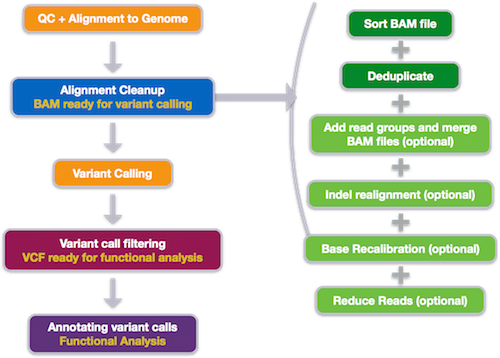
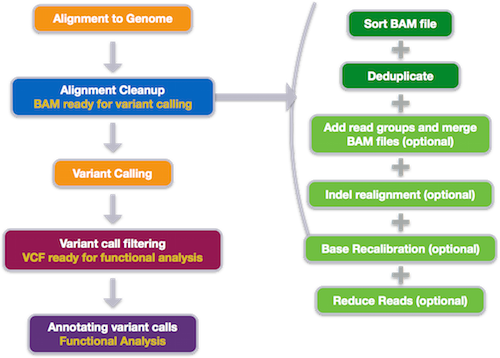
Finished markdown for alignment for variant calling.
Need to edit the commands from bwa-mem to end. I think I need to have all reference and fastq files in the same folder for bwa alignment.

Changed region(s): [[0.03, 0.0, 0.42, 0.0922]]

diff --git a/sessionVI/lessons/01_alignment.md b/sessionVI/lessons/01_alignment.md
@@ -8,21 +8,72 @@ Approximate time: 90 minutes
 
 ## Learning Objectives:
 
-* Exploration of the variant calling workflow
-* Understanding the alignment method BWA utilizes to align sequence reads to the reference genome
+* Exploring the variant calling workflow
 * Choosing appropriate BWA alignment parameters for our dataset
+* Understanding alignment clean-up steps
 
 ## Variant Calling Workflow
 
+The variant calling workflow begins with quality control and alignment, similar to the other NGS applications. Alignment is followed by alignment clean-up to prepare data for variant calling. Then, variant calling is performed, followed by filtering and annotation of the variant calls.
+
 ![var_calling_workflow](../img/variant_calling_workflow.png)
 
-The variant calling workflow begins with quality control and alignment, similar to the other NGS applications. Alignment is followed by alignment cleanup to prepare data for variant calling. Then, variant calling is performed, followed by variant call filtering and annotation of the variant calls.
+## Set-up
 
-## Read Alignment
+Login to Orchestra and start an interactive session with four cores:
+
+```
+$ bsub -Is -n 4 -q interactive bash
+```
+
+Change directories to the `ngs_course` directory:
+
+```
+$ cd ~/ngs_course
+```
+
+Create a `var-calling` directory and change directories into it:
+
+```
+$ mkdir var-calling
+
+$ cd var-calling
+```
+
+Create folders for `data`and `results`:
+
+```
+$ mkdir data results
+```
+
+Within the `data` folder create folders for `untrimmed_fastq` and `reference_data`:
+
+```
+$ mkdir data/untrimmed_fastq data/reference_data
+```
+
+Within the `results` folder create a folder for `bwa`:
+
+```
+$ mkdir results/bwa
+```
+
+Now that we have the directory structure created, let's copy over the data to perform our quality control and alignment, including our fastq files and reference data files:
+
+```
+$ cd data
+
+$ cp /groups/hbctraining/ngs-data-analysis2016/var-calling/raw_fastq/*fastq untrimmed_fastq/
+
+$ cp  /groups/hbctraining/ngs-data-analysis2016/chipseq/reference_data/chr20.fa reference_data/
+```
+
+
+## Alignment
 
 Choice of alignment tool is often determined by the type of NGS application being conducted. We have previously used STAR for RNA-Seq data because it is fast and optimized for aligning spliced reads. For ChIP-Seq we used Bowtie2 to align the reads because it is fast and accurate. For variant calling we will use [BWA (Burrows-Wheeler Aligner)](http://bio-bwa.sourceforge.net) for alignment. 
 
-BWA is generally slower than Bowtie2 with similar sensitivity and both tools can perform gapped alignment for the identification of indels and can effectively map paired-end reads. However, BWA is a bit more accurate and provides information on which alignments are trustworthy. Small numbers of bad alignments can result in many false variant calls, so accuracy is paramount when performing variant calling.
+BWA is generally slower than Bowtie2 with similar sensitivity and both tools can perform gapped alignment for the identification of indels and can effectively map paired-end reads. However, BWA is a bit more accurate and provides information on which alignments are trustworthy. Small numbers of bad alignments can result in many false variant calls, so accuracy is paramount, and is the basis of choosing BWA.
 
 ### BWA modes
 
@@ -34,12 +85,100 @@ Depending on read length, BWA has different modes optimized for different sequen
 
 - **BWA-MEM:** share similar features to BWA-SW, but BWA-MEM is the latest, is generally recommended for high-quality queries as it is faster and more accurate. BWA-MEM also has better performance than BWA-backtrack for 70-100bp Illumina reads.
 
-### Aligning reads with BWA
+### Aligning reads with BWA-MEM
 
-#### Set-up
+Change directories into the `reference_data` directory:
 
+```
+$ cd ~/ngs_course/var-calling/data/reference_data
+```
 
-For all the algorithms, BWA first needs to construct the FM-index for the reference genome  .
+Load the necessary modules for alignment and clean-up:
+
+```
+$ module load seq/samtools/1.3 seq/bwa/0.7.8  seq/picard/1.138
+```
+
+#### Creating BWA-MEM index
+
+Similar to the other alignment tools we have used, the first step in the BWA alignment is to create an index for the reference genome. Similar to Bowtie2, BWA indexes the genome with an FM Index based on the Burrows-Wheeler Transform to keep memory requirements low for the alignment process. 
+
+The basic options for indexing the genome using BWA are:
+
+* `-p`: prefix for all index files
+
+```
+$ bwa index -p chr20 chr20.fa
+```
+
+#### Aligning reads with BWA-MEM
+
+Since we have our indexes created, we can get started with read alignment. Change directories to the `bwa` folder:
+
+```
+$ cd ~/ngs_course/var-calling/data
+```
+
+We will perform alignment on our paired-end reads for sample `na12878`. Details on BWA and its functionality can be found in the [user manual](http://bio-bwa.sourceforge.net/bwa.shtml); we encourage you to peruse through to get familiar with all available options.
+
+The basic options for aligning reads to the genome using BWA-MEM are:
+
+* `-t`: number of threads / cores
+* `-M`: mark shorter split hits as secondary (for Picard compatibility)
+	
+
+```
+$ bwa mem -t 4 -M 6  \
+reference_data/chr20 \   # path to genome indexes including prefix
+untrimmed_fastq/na12878_1.fastq untrimmed_fastq/na12878_2.fastq \    # fastq files for paired-end reads
+2> ~/ngs_course/var-calling/results/bwa/bwa.err > ~/ngs_course/var-calling/results/bwa/na12878.sam     # save standard error to file and save alignment output as `na12878.sam`
+
+```
+### Alignment clean-up
+
+The last stage of the alignment phase is marking duplicates, and it is usually only required for variant calling. We need to find reads that are likely artifacts from the PCR amplification as they can bias variant calls.
+
+![align_cleanup](../img/workflow_cleanup.png)
+
+If duplicates aren't marked, then the PCR-based errors will be picked up again and again as false positive variant calls. Duplicates are easy to detect: since they have the same mapping information and CIGAR string:  
+
+![dedup1](../img/dedup_begin.png)
+
+Marking duplicates with tools such as Picard or samblaster will result in the variant caller ignoring these PCR-based errors, and instead seeing:
+
+![dedup1](../img/dedup_end.png)
+
+The variant caller will be more likely to discard the error, instead of calling it as a variant.
+
+#### Sorting SAM by coordinates
+[user_manual](http://broadinstitute.github.io/picard/command-line-overview.html#Overview)
+
+```
+$ java -jar /opt/picard-1.138/SortSam.jar \
+INPUT=na12878.sam \
+OUTPUT=na12878_sorted.sam \
+SORT_ORDER=coordinate \
+VALIDATION_STRINGENCY=LENIENT
+```
+
+#### Marking duplicates
+
+```
+$ java -jar /opt/picard-1.138/MarkDuplicates.jar \
+INPUT=na12878_sorted.sam \
+OUTPUT=na12878_sorted_marked.bam \
+METRICS_FILE=metrics.txt \
+AS=true \
+VALIDATION_STRINGENCY=LENIENT
+```
+#### Creating index for BAM file
+
+```
+samtools index na12878_sorted_marked.bam
+```
+
+***
+*This lesson has been developed by members of the teaching team at the [Harvard Chan Bioinformatics Core (HBC)](http://bioinformatics.sph.harvard.edu/). These are open access materials distributed under the terms of the [Creative Commons Attribution license](https://creativecommons.org/licenses/by/4.0/) (CC BY 4.0), which permits unrestricted use, distribution, and reproduction in any medium, provided the original author and source are credited.*
 
 
 
